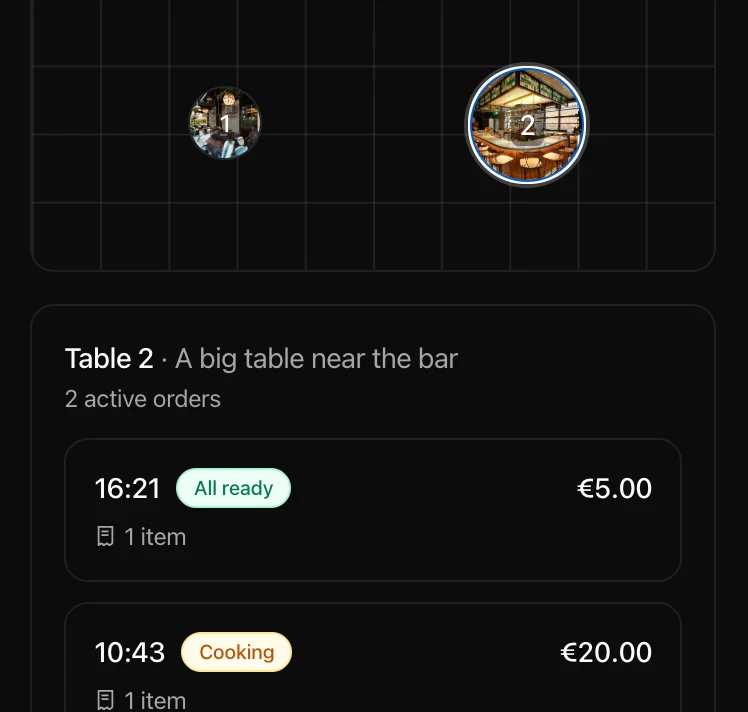
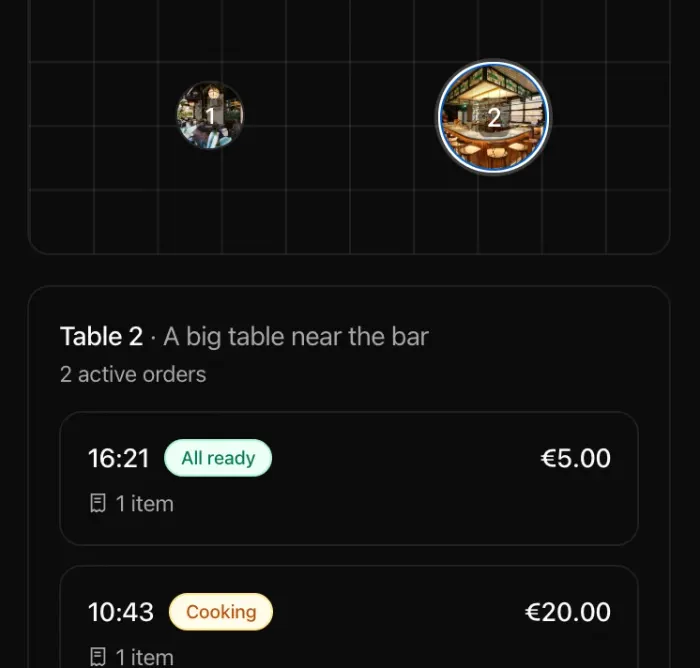
landing perf + a11y: local dish thumbs, brighter primary on dark, raise browserslist
- bake 600x600 webp thumbs in /public/landing for hero menu items; drops
  ~150KB/image vs the 1024x1024 originals on object storage and removes
  the third-party fetch from the LCP path
- resize online-orders-floorplan to 700x668 (24K → 16K)
- bump --primary lightness 42% → 58% in dark mode so text-primary passes
  WCAG AA on bg-background (was 4.11:1 on #0d0d0d)
- swap WhatsApp button bg #128C7E → #0F766E (4.13 → 5.4 contrast)
- shorten it hero dynamic line "Ordini diretti, zero commissioni." → "Ordini diretti."
- raise browserslist baseline (Chrome 94, Safari 16) so SWC stops shipping
  .at / Object.hasOwn / trimStart polyfills (~12KB saved)
- add scripts/build-landing-dishes.mjs for regenerating dish thumbs

diff --git a/apps/landing/app/_landing/components/menu-mockup/data.ts b/apps/landing/app/_landing/components/menu-mockup/data.ts
@@ -39,35 +39,35 @@ export const ITEMS: MockItem[] = [
     id: "i1",
     categoryId: "c1",
     price: 18.5,
-    imageUrl: "https://nbg1.your-objectstorage.com/sobogd/temp/cmi5yzq5v0000vx0hbjmbks82/import-steak-tartar-de-buey-1778342626492-ppf0yn.webp",
+    imageUrl: "/landing/steak-tartar.webp",
     allergens: ["eggs", "gluten", "mustard", "sulphites"],
   },
   {
     id: "i2",
     categoryId: "c1",
     price: 16,
-    imageUrl: "https://nbg1.your-objectstorage.com/sobogd/temp/cmi5yzq5v0000vx0hbjmbks82/import-burrata-con-trufa-negra-1778342648771-e2nq8b.webp",
+    imageUrl: "/landing/burrata.webp",
     allergens: ["dairy", "gluten", "sulphites"],
   },
   {
     id: "i3",
     categoryId: "c1",
     price: 19,
-    imageUrl: "https://nbg1.your-objectstorage.com/sobogd/temp/cmi5yzq5v0000vx0hbjmbks82/import-tataki-de-atun-rojo-1778342666692-bohb4o.webp",
+    imageUrl: "/landing/tataki.webp",
     allergens: ["fish", "soybeans", "sesame", "gluten"],
   },
   {
     id: "i4",
     categoryId: "c2",
     price: 42,
-    imageUrl: "https://nbg1.your-objectstorage.com/sobogd/temp/cmi5yzq5v0000vx0hbjmbks82/import-chuleton-madurado-400g-1778342757733-rosblf.webp",
+    imageUrl: "/landing/chuleton.webp",
     allergens: ["dairy", "sulphites", "celery"],
   },
   {
     id: "i5",
     categoryId: "c2",
     price: 32,
-    imageUrl: "https://nbg1.your-objectstorage.com/sobogd/temp/cmi5yzq5v0000vx0hbjmbks82/import-bacalao-negro-al-miso-1778342789206-wyxdgo.webp",
+    imageUrl: "/landing/bacalao.webp",
     allergens: ["fish", "soybeans", "sesame", "gluten", "sulphites"],
   },
   { id: "i6", categoryId: "c5", price: 13, allergens: ["sulphites"] },
@@ -83,28 +83,28 @@ export const ITEMS: MockItem[] = [
     id: "i15",
     categoryId: "c7",
     price: 9.5,
-    imageUrl: "https://nbg1.your-objectstorage.com/sobogd/temp/cmi5yzq5v0000vx0hbjmbks82/import-coulant-de-chocolate-negro-1778343210436-aym6r6.webp",
+    imageUrl: "/landing/coulant.webp",
     allergens: ["gluten", "eggs", "dairy", "soybeans"],
   },
   {
     id: "i16",
     categoryId: "c7",
     price: 8,
-    imageUrl: "https://nbg1.your-objectstorage.com/sobogd/temp/cmi5yzq5v0000vx0hbjmbks82/import-tarta-de-queso-vasca-1778343228534-pfiitj.webp",
+    imageUrl: "/landing/tarta-queso.webp",
     allergens: ["gluten", "eggs", "dairy"],
   },
   {
     id: "i17",
     categoryId: "c7",
     price: 8.5,
-    imageUrl: "https://nbg1.your-objectstorage.com/sobogd/temp/cmi5yzq5v0000vx0hbjmbks82/import-tiramisu-noir-1778343259241-qy6v7k.webp",
+    imageUrl: "/landing/tiramisu.webp",
     allergens: ["gluten", "eggs", "dairy", "nuts", "sulphites"],
   },
   {
     id: "i18",
     categoryId: "c7",
     price: 7.5,
-    imageUrl: "https://nbg1.your-objectstorage.com/sobogd/temp/cmi5yzq5v0000vx0hbjmbks82/import-crema-catalana-1778343273378-7lv8kg.webp",
+    imageUrl: "/landing/crema-catalana.webp",
     allergens: ["eggs", "dairy"],
   },
 ];

diff --git a/apps/landing/app/globals.css b/apps/landing/app/globals.css
@@ -109,7 +109,7 @@ html {
     --card-foreground: 0 0% 98%;
     --popover: 0 0% 5%;
     --popover-foreground: 0 0% 98%;
-    --primary: 16 100% 42%;
+    --primary: 16 100% 58%;
     --primary-foreground: 0 0% 100%;
     --secondary: 0 0% 15%;
     --secondary-foreground: 0 0% 98%;
@@ -123,15 +123,15 @@ html {
     --success-foreground: 0 0% 100%;
     --border: 0 0% 12%;
     --input: 0 0% 18%;
-    --ring: 16 100% 42%;
+    --ring: 16 100% 58%;
     --sidebar-background: 0 0% 10%;
     --sidebar-foreground: 0 0% 96%;
-    --sidebar-primary: 16 100% 42%;
+    --sidebar-primary: 16 100% 58%;
     --sidebar-primary-foreground: 0 0% 100%;
     --sidebar-accent: 0 0% 16%;
     --sidebar-accent-foreground: 0 0% 96%;
     --sidebar-border: 0 0% 16%;
-    --sidebar-ring: 16 100% 42%;
+    --sidebar-ring: 16 100% 58%;
   }
 
   * {

diff --git a/apps/landing/app/_landing/components/faq.tsx b/apps/landing/app/_landing/components/faq.tsx
@@ -35,7 +35,7 @@ export function Faq({ texts }: FaqProps) {
             target="_blank"
             rel="noopener noreferrer"
             trackEvent="land_faq_whatsapp_click"
-            className="inline-flex items-center gap-2 h-10 px-5 rounded-lg bg-[#128C7E] text-white text-sm font-medium hover:opacity-90 active:scale-[0.99] transition-all"
+            className="inline-flex items-center gap-2 h-10 px-5 rounded-lg bg-[#0F766E] text-white text-sm font-medium hover:opacity-90 active:scale-[0.99] transition-all"
           >
             <MessageCircle className="h-4 w-4" />
             {texts.whatsappCta}

diff --git a/apps/landing/app/it/lp/menu-digitale/texts.ts b/apps/landing/app/it/lp/menu-digitale/texts.ts
@@ -12,9 +12,6 @@ export const TEXTS: LandingTexts = {
   hero: {
     ...DEFAULT.hero,
     sub: "Menu digitale = la carta del tuo ristorante online, accessibile dal QR sul tavolo senza app. Pronto in 5 minuti, ordini diretti senza commissioni, traduzione IA in 35 lingue.",
-    dynamicHeadlines: DEFAULT.hero.dynamicHeadlines.map((h) =>
-      h === "Ordini diretti, zero commissioni." ? "Ordini diretti." : h,
-    ),
   },
 
   founder: {

diff --git a/apps/landing/app/it/texts.ts b/apps/landing/app/it/texts.ts
@@ -36,7 +36,7 @@ export const TEXTS: LandingTexts = {
     dynamicHeadlines: [
       "Menu digitale completo.",
       "QR Code per i tavoli.",
-      "Ordini diretti, zero commissioni.",
+      "Ordini diretti.",
       "35 lingue con IA.",
       "Prenotazioni 24/7.",
     ],

diff --git a/apps/landing/public/landing/README.md b/apps/landing/public/landing/README.md
@@ -1,0 +1,1 @@
+Generated by scripts/build-landing-dishes.mjs — do not edit by hand.
